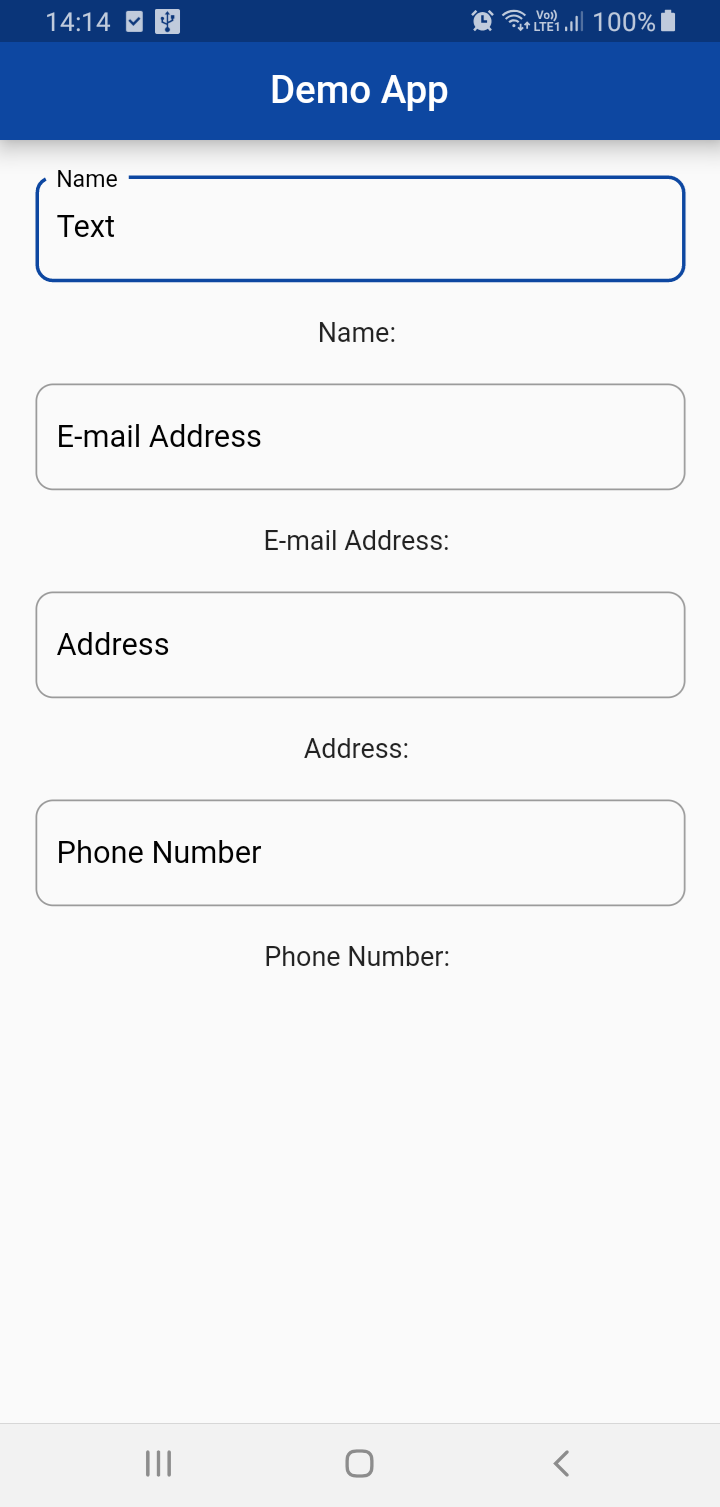
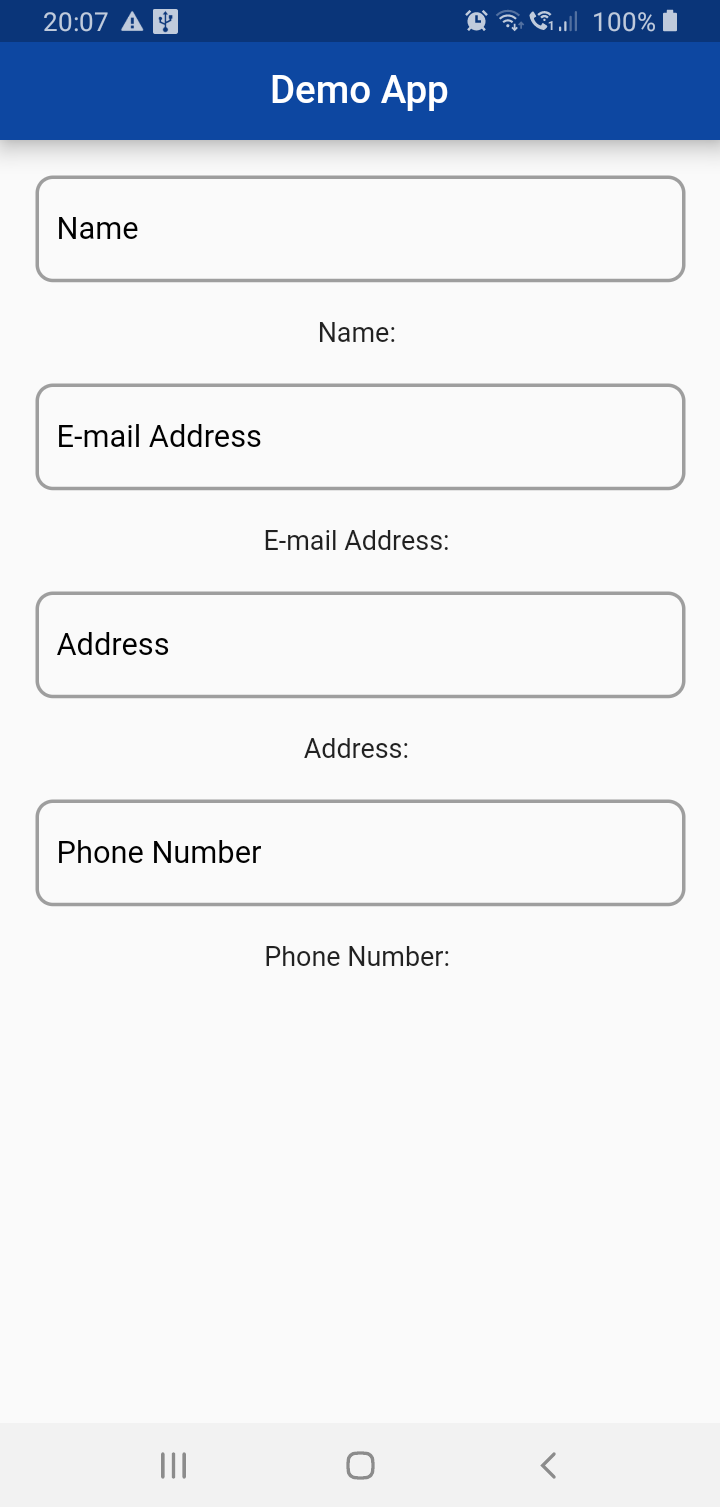
Updated the TextField Widget page
Updated the TextField Widget page

diff --git a/Folders/TextField Widget/TextField Widget.md b/Folders/TextField Widget/TextField Widget.md
@@ -21,11 +21,10 @@ class MyApp extends StatelessWidget {
     return MaterialApp(
       debugShowCheckedModeBanner: false,
       theme: ThemeData(
-        ///Set the primaryColor value to apply the change to the TextField's border
-          primaryColor: Colors.blue[900],
+
+        ///Set the properties to apply the change to the cursor and text selection handle
           cursorColor: Colors.black,
-          textSelectionHandleColor: Colors.black
-      ),
+          textSelectionHandleColor: Colors.black),
       home: Scaffold(
         appBar: AppBar(
           elevation: 10,
@@ -45,7 +44,6 @@ class TextFieldWidget extends StatefulWidget {
 }
 
 class _TextFieldWidgetState extends State<TextFieldWidget> {
-
   TextEditingController nameTextController = TextEditingController();
   TextEditingController emailTextController = TextEditingController();
   TextEditingController addressTextController = TextEditingController();
@@ -62,26 +60,22 @@ class _TextFieldWidgetState extends State<TextFieldWidget> {
           labelText: 'Name',
           hintText: 'Text',
           textEditingController: nameTextController,
-          textStatus: nameTextController.text
-      ),
+          textStatus: nameTextController.text),
       TextFieldModel(
           labelText: 'E-mail Address',
           hintText: 'Text',
           textEditingController: emailTextController,
-          textStatus: emailTextController.text
-      ),
+          textStatus: emailTextController.text),
       TextFieldModel(
           labelText: 'Address',
           hintText: 'Text',
           textEditingController: addressTextController,
-          textStatus: addressTextController.text
-      ),
+          textStatus: addressTextController.text),
       TextFieldModel(
           labelText: 'Phone Number',
           hintText: 'Number',
           textEditingController: phoneNumberTextController,
-          textStatus: phoneNumberTextController.text
-      ),
+          textStatus: phoneNumberTextController.text),
     ];
   }
 
@@ -93,6 +87,7 @@ class _TextFieldWidgetState extends State<TextFieldWidget> {
   Widget build(BuildContext context) {
     return Padding(
       padding: const EdgeInsets.all(10.0),
+
       ///Using the GestureDetector Widget with the following properties of Widget allows dismissing the keyboard, on
       ///tapping anywhere in the Viewport.
       child: GestureDetector(
@@ -101,37 +96,64 @@ class _TextFieldWidgetState extends State<TextFieldWidget> {
           FocusScope.of(context).requestFocus(FocusNode());
         },
         child: ListView(
-          children: textFieldModel.map((textFieldModelParameter) =>
-              Column(
-                mainAxisAlignment: MainAxisAlignment.spaceAround,
-                children: [
-                  Padding(
-                    padding: const EdgeInsets.all(10.0),
-                    child: TextField(
-                      maxLines: textFieldModelParameter.labelText == 'Address'? null: 1,
-                      controller: textFieldModelParameter.textEditingController,
-                      decoration: InputDecoration(
-                          labelText: textFieldModelParameter.labelText,
-                          labelStyle: TextStyle(color: Colors.black),
-                          hintStyle: TextStyle(color: Colors.black),
-                          hintText: textFieldModelParameter.hintText,
-                          border: OutlineInputBorder(
-                              borderRadius: BorderRadius.all(Radius.circular(10))
-                          )
+          children: textFieldModel
+              .map((textFieldModelParameter) => Column(
+            mainAxisAlignment: MainAxisAlignment.spaceAround,
+            children: [
+              Padding(
+                padding: const EdgeInsets.all(10.0),
+                child: TextField(
+                  ///Setting the keyBoardType property. If the labelText == "E-mail Address", then the TextInputType
+                  ///is emailAddress. If the labelText is "Phone Number", then the TextInputType is phone. If the
+                  ///labelText == "Name",  then the TextInputType is text. In the last condition (where the
+                  ///labelText == "Address"), the TextInputType is multiline.
+                  keyboardType: textFieldModelParameter.labelText == 'Phone Number'
+                      ? TextInputType.phone
+                      : textFieldModelParameter.labelText == 'E-mail Address'
+                      ? TextInputType.emailAddress
+                      : textFieldModelParameter.labelText == 'Name'
+                      ? TextInputType.text
+                      : TextInputType.multiline,
+                  maxLines: textFieldModelParameter.labelText == 'Address' ? null : 1,
+                  controller: textFieldModelParameter.textEditingController,
+                  decoration: InputDecoration(
+                    labelText: textFieldModelParameter.labelText,
+                    labelStyle: TextStyle(color: Colors.black),
+                    hintStyle: TextStyle(color: Colors.black),
+                    hintText: textFieldModelParameter.hintText,
+                    border: OutlineInputBorder(
+                      borderRadius: BorderRadius.all(
+                        Radius.circular(10),
                       ),
-                      onChanged: (String value) {
-                        setState(() {
-                          textFieldModelParameter.textStatus = value;
-                        });
-                      },
+                      borderSide: BorderSide(color: Colors.blue[900], width: 2),
+                    ),
+                    enabledBorder: OutlineInputBorder(
+                      borderRadius: BorderRadius.all(
+                        Radius.circular(10),
+                      ),
+                      borderSide: BorderSide(color: Colors.grey, width: 2),
+                    ),
+                    focusedBorder: OutlineInputBorder(
+                      borderRadius: BorderRadius.all(
+                        Radius.circular(10),
+                      ),
+                      borderSide: BorderSide(color: Colors.blue[900], width: 2),
                     ),
                   ),
-                  Padding(
-                    padding: const EdgeInsets.all(10.0),
-                    child: Text('${textFieldModelParameter.labelText}: ${textFieldModelParameter.textStatus}'),
-                  )
-                ],
-              )).toList(),
+                  onChanged: (String value) {
+                    setState(() {
+                      textFieldModelParameter.textStatus = value;
+                    });
+                  },
+                ),
+              ),
+              Padding(
+                padding: const EdgeInsets.all(10.0),
+                child: Text('${textFieldModelParameter.labelText}: ${textFieldModelParameter.textStatus}'),
+              )
+            ],
+          ))
+              .toList(),
         ),
       ),
     );
@@ -146,8 +168,13 @@ class TextFieldModel {
 
   TextFieldModel({this.textEditingController, this.labelText, this.hintText, this.textStatus});
 }
+
 ```
 
 #### Screenshots
 [TextFieldWidget01](Screenshots/TextFieldWidget01.png)  
-[TextFieldWidget02](Screenshots/TextFieldWidget02.png)
+[TextFieldWidget02](Screenshots/TextFieldWidget02.png)  
+[TextFieldWidget03](Screenshots/TextFieldWidget03.png)  
+[TextFieldWidget04](Screenshots/TextFieldWidget04.png)  
+[TextFieldWidget05](Screenshots/TextFieldWidget05.png)  
+[TextFieldWidget06](Screenshots/TextFieldWidget06.png)
